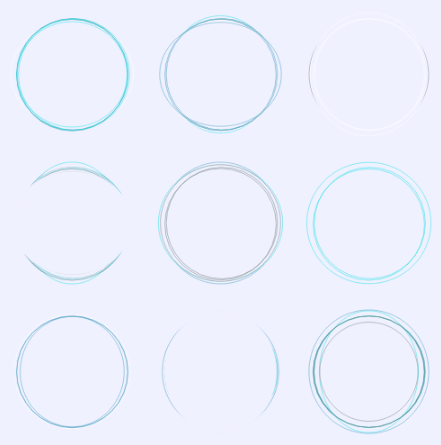
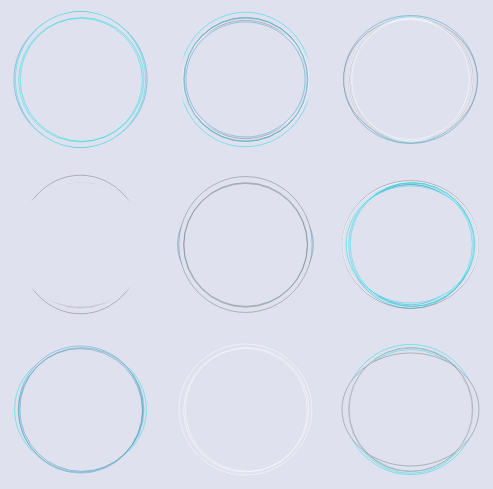
circles custom gallery page

diff --git a/sass/custom/_styles.scss b/sass/custom/_styles.scss
@@ -119,3 +119,12 @@ $gallery_page_accent: #CCC;
 body#gallery_page{
     background-color: $gallery_page_bg;
 }
+//***********************************
+//CIRCLES
+//***********************************
+body#gallery_page_circles{
+    background-color: #F1F1FF;
+    #gallery_page{
+        background-color: #F1F1FF;
+    }
+}
